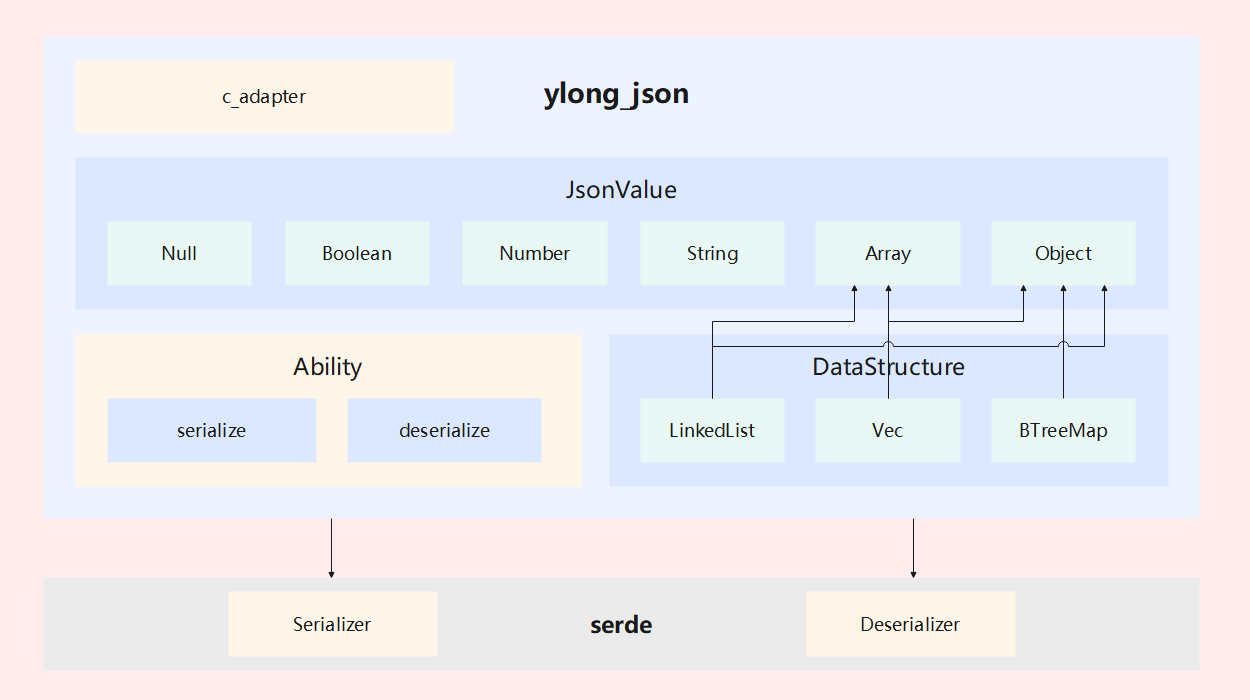
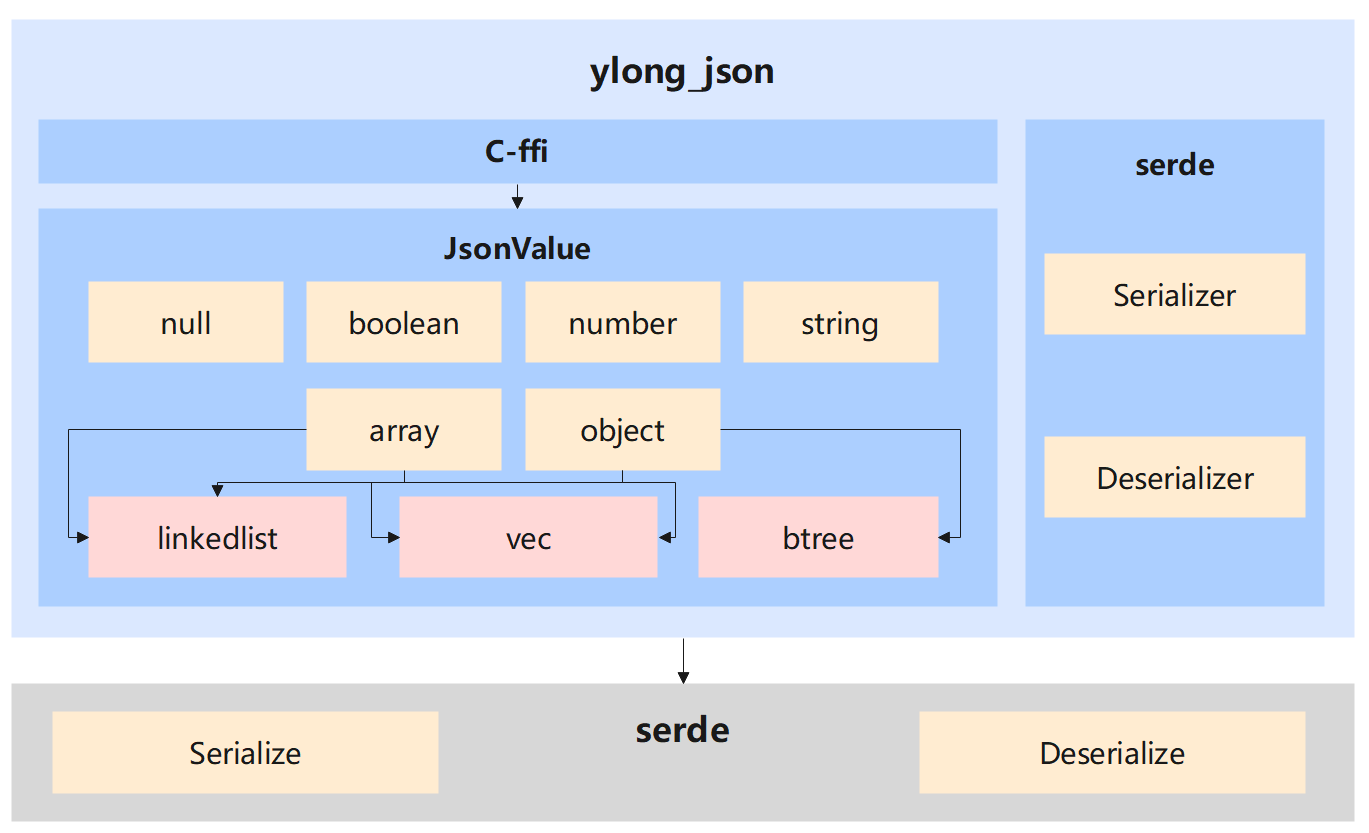
修改 ylong_json readme 问题。

diff --git a/README.md b/README.md
@@ -1,30 +1,33 @@
 # ylong_json
 
 ## Introduction
-The `ylong_json` module provides serialization of text or string in JSON syntax format and deserialization of corresponding generated instances.
+`ylong_json` is a general `JSON` syntax parsing library that provides functions for converting `JSON` text to and from specific data structures.
 
-### ylong_json in Openharmony
+### ylong_json in OpenHarmony
 ![structure](./figures/ylong_json_oh_relate.png)
-Here is the description of the key fields in the figure above:
-- `ylong_json` : System component that provides json serialization and deserialization capabilities
-- `serde` : Third-party library for efficient and generic serialization and deserialization of Rust data structures.
+The following is a description of the key fields in the above figure:
+- `Application Layer`: The application layer provides specific functions to users.
+- `App`: Various applications need to use the functions of the system service layer.
+- `System Service Layer`: System service layer, which provides system services to upper-layer applications.
+- `system services`: Various system services require the use of `JSON` related functions.
+- `ylong_json`: System component, providing common `JSON` serialization and deserialization capabilities to related components of the system service layer.
+- `serde`: third-party library for efficient and versatile serialization and deserialization of `Rust` data structures.
 
 ### ylong_json Internal architecture diagram
 ![structure](./figures/ylong_json_inner_structure.png)
-`ylong_json` is mainly divided into two modules, a module with a custom `JsonValue` structure type as the core and a module that ADAPTS to the third-party library `serde`.
+`ylong_json` is mainly divided into three submodules: `JsonValue` submodule, `serde` submodule, and C-ffi submodule.
 
-1. `JsonValue` is the internal custom structure type of `ylong_json`, and the serialization and deserialization function of `json` is built with this structure as the core.
-- `JsonValue` : The core structure type, which stores the json content information, has 6 internal enum type variants.
-- `LinkedList`, `Vec`, `BTreeMap` : Three ways of storing data inside `Array` and `Object`, selected by `features`.
-- Serialization ability: Supports outputting a `JsonValue` instance as a compact strings or writing to the output stream.
-- Deserialization ability: Supports parsing `json` text or `json` content in the input stream and generating a `JsonValue` instance.
+The `JsonValue` submodule provides a basic data structure `JsonValue`.
+`JsonValue` supports serializing itself into `JSON` text in either indented or compact format. Any syntactically correct `JSON` text can also be deserialized into a corresponding `JsonValue` data structure.
+`JsonValue` supports addition, deletion, modification and query, and you can use the specified interface to change the data content in `JsonValue`.
+`JsonValue` supports all data types in `JSON` syntax: `null`, `boolean`, `number`, `string`, `array`, `object`, and implements all its functions according to `ECMA-404`.
+For `array` and `object` grammatical structures, `JsonValue` provides a variety of underlying data structures for different usage scenarios, for example, for `array` structures, it supports the underlying use of `Vec` or `LinkedList`, for `object` , supports the use of `Vec`, `LinkedList` or `Btree` as its underlying layer.
+On different underlying data structures, `array` and `object` will reflect different creation and query performance, for example, `object` based on `Btree` data structure has higher performance in query, `LinkedList` or `LinkedList` or `Vec` has high performance in terms of creation.
 
-2. `ylong_json` adapts to the third-party library `serde` 
-- `Serializer`: The auxiliary structure for serialization.
-- `Deserializer`: The auxiliary structure for deserialization.
-- Serialization ability: Supports for serializing a type instance that implements the `serde::Serialize` trait into `json` text content or writing the content to the output stream.
-- Deserialization ability: If the `json` content has the type that implements `serde::Deserialize` trait, then that part of the `json` content can be deserialized into an instance of that type.
+The `serde` submodule provides procedural macro functions based on the `Serialize` and `Deserialize` traits provided by the `serde` third-party library, which can support fast conversion of user structures and `JSON` text.
+The advantage of `serde` compared to `JsonValue` is that it is easy to use. Users do not need to convert the `JSON` text to `JsonValue` and then extract the specified data from it to generate the `Rust` structure. They only need to set `Serialize' to the structure. ` and `Deserialize` process macro tags can be used to serialize the interface structure provided in `ylong_json` into `JSON` text, or convert the corresponding `JSON` text into a user structure.
 
+The C-ffi module provides a C interface layer based on the `JsonValue` module, which facilitates users to use the C interface to call the functions of the `ylong_json` library.
 ## Directory
 ```
 ylong_json
@@ -72,40 +75,44 @@ external_deps = ["ylong_json:lib"]
 See [user_guide](./docs/user_guide.md)
 
 ## Performance test
+The following tests are from [`nativejson-benchmark`](https://www.github.com/miloyip/nativejson-benchmark)。
+
+The test environment information is as follows:
 ```
-1.Test environment
-OS: Linux
-Architecture: x86_64
-Byte Order: Little Endian
-Model number: Intel(R) Xeon(R) Gold 6278C CPU @ 2.60GHz
+OS: Ubuntu 7.3.-16ubuntu3
+Processor: Intel(R) Xeon(R) Gold 6278C CPU @ 2.60GHz
 CPU(s): 8
-MemTotal: 16G
-
-2.Test result
-| Serialize | ylong_json      | serde_json     |
-------------------------------------------------
-| null      | 150 ns/iter     | 175 ns/iter    |
-| boolean   | 155 ns/iter     | 178 ns/iter    |
-| number    | 309 ns/iter     | 291 ns/iter    |
-| string    | 513 ns/iter     | 413 ns/iter    |
-| array     | 998 ns/iter     | 1,075 ns/iter  |
-| object    | 1,333 ns/iter   | 1,348 ns/iter  |
-| example1  | 12,537 ns/iter  | 12,288 ns/iter |
-| example2  | 23,754 ns/iter  | 21,936 ns/iter |
-| example3  | 103,061 ns/iter | 97,247 ns/iter |
-| example4  | 15,234 ns/iter  | 17,895 ns/iter |
-
-| Deserialize | ylong_json      | serde_json     |
---------------------------------------------------
-| null        | 257 ns/iter     | 399 ns/iter    |
-| boolean     | 260 ns/iter     | 400 ns/iter    |
-| number      | 1,507 ns/iter   | 989 ns/iter    |
-| string      | 414 ns/iter     | 610 ns/iter    |
-| array       | 2,258 ns/iter   | 2,148 ns/iter  |
-| object      | 810 ns/iter     | 1,386 ns/iter  |
-| example1    | 10,191 ns/iter  | 10,227 ns/iter |
-| example2    | 15,753 ns/iter  | 18,022 ns/iter |
-| example3    | 55,910 ns/iter  | 59,717 ns/iter |
-| example4    | 18,461 ns/iter  | 12,471 ns/iter |
+Memory：8.0 G
 ```
 
+Software versions tested:
+
+cJSON 1.7.16
+
+Test Results:
+```
+======= ylong-json ==== parse | stringify ====
+canada.json            200 MB/s  90 MB/s 
+citm_catalog.json      450 MB/s  300 MB/s 
+twitter.json           340 MB/s  520 MB/s
+
+======== cJSON ======== parse | stringify ====
+canada.json            55 MB/s    11 MB/s 
+citm_catalog.json      260 MB/s   170 MB/s 
+twitter.json           210 MB/s   210 MB/s
+```
+
+Description of test results:
+
+Three test files are provided in the `nativejson-benchmark` test. Among them, `canada.json` contains a large number of `number` structures, the various data types of `citm_catalog.json` are relatively average, and `twitter.json` exists Various `UTF-8` characters.
+To ensure test fairness, `ylong_json` enables `list_object`, `list_array` and `ascii_only` feature.
+The `list_object` and `list_array` features are mainly to ensure consistency with the `cJSON` data structure, and both are implemented using linked lists.
+`ascii_only` feature is to ensure consistent processing logic for `UTF-8` characters, `cJSON` does not handle UTF-8 characters.
+
+The testing process is as follows:
+- Read the content of the file into the memory, and get the content of the file `content`.
+- Call the specified `JSON` library deserialization interface to generate the corresponding `JSON` structure `data`.
+- Call the serialization interface of the `JSON` structure to generate the output content `result`.
+- Using `content`, loop deserialization generates `JSON` structure 100 times, taking the smallest processing time `t1`.
+- Using `data`, serialize and generate `JSON` text 100 times, taking the smallest processing time `t2`.
+- Calculate the parsing speed, the deserialization time is the length of `content` divided by `t1`, and the serialization time is the length of the `JSON` text divided by `t2`.

diff --git a/README_zh.md b/README_zh.md
@@ -1,29 +1,33 @@
 # ylong_json
 
 ## 简介
-`ylong_json` 模块提供了 JSON 语法格式文本或字符串的序列化功能，以及对应生成实例的反序列化功能。
+`ylong_json` 是一个通用的 `JSON` 语法解析库，提供了 `JSON` 文本和特定数据结构之间的相互转换功能。
 
-### ylong_json 在 Openharmony 中的位置
+### ylong_json 在 OpenHarmony 中的位置
 ![structure](./figures/ylong_json_oh_relate.png)
 以下是对于上图关键字段的描述信息：
-- `ylong_json`：提供 `json` 序列化与反序列化能力的系统组件
+- `Application Layer`：应用层，给用户提供具体功能。
+- `App`：各种应用，需要使用系统服务层的功能。
+- `System Service Layer`：系统服务层，给上层应用提供系统服务。
+- `system services`：各种系统服务，需要使用 `JSON` 相关的功能。 
+- `ylong_json`：系统组件，给系统服务层的相关组件提供通用的 `JSON` 序列化与反序列化能力。
 - `serde`：第三方库，用于高效、通用地序列化和反序列化 `Rust` 数据结构。
 
 ### ylong_json 内部架构图
 ![structure](./figures/ylong_json_inner_structure.png)
-`ylong_json` 内部主要分为两个模块，以自定义 `JsonValue` 类型为核心的模块和适配第三方库 `serde` 的模块。
+`ylong_json` 主要分为三个子模块：`JsonValue` 子模块、`serde` 子模块、C-ffi 子模块。
 
-1. `JsonValue` 是 `ylong_json` 内部自定义的结构类型，以该结构为核心构建 `json` 的序列化与反序列化功能。
-- `JsonValue` ：核心结构类型，存储 `json` 内容信息，共有 6 种枚举类型变体。
-- `LinkedList`, `Vec`, `BTreeMap`：`Array` 与 `Object` 内部数据存储的三种方式，通过 `features` 选择。
-- 序列化功能：支持将 `JsonValue` 实例输出为紧凑型字符串或写到输出流中。
-- 反序列化功能：支持解析 `json` 文本或输入流中的 `json` 内容并生成 `JsonValue` 实例。
+`JsonValue` 子模块提供了一种基础数据结构 `JsonValue`。
+`JsonValue` 支持以缩进型格式或紧凑型格式将自身序列化成 `JSON` 文本。任意语法正确的 `JSON` 文本也能被反序列化成一个对应的 `JsonValue` 数据结构。
+`JsonValue` 支持增删改查，可以使用指定接口变更 `JsonValue` 中的数据内容。
+`JsonValue` 支持 `JSON` 语法中全部的数据类型：`null`, `boolean`, `number`, `string`, `array`, `object`，且按照 `ECMA-404` 实现其全部功能。
+针对于 `array` 和 `object` 语法结构，`JsonValue` 提供了多种底层数据结构以针对不同使用场景，例如对于 `array` 结构，支持底层使用 `Vec` 或 `LinkedList`，对于 `object`，支持其底层使用 `Vec`, `LinkedList` 或 `Btree`。
+在不同的底层数据结构之上，`array` 和 `object` 会体现出不同的创建和查询性能，例如基于 `Btree` 数据结构的 `object` 在查询方面具有较高性能表现，`LinkedList` 或 `Vec` 在创建方面具有较高性能表现。
 
-2. `ylong_json` 适配了第三方库 `serde` 
-- `Serializer`：序列化输出的辅助结构类型。
-- `Deserializer`：反序列化输出的辅助结构类型。
-- 序列化功能：支持将实现了 `serde::Serialize` trait 的类型实例序列化为 `json` 文本内容或将内容写到输出流中。
-- 反序列化功能：若实现了 `serde::Deserialize` trait 的类型在 `json` 内容中，则可将该部分 `json` 内容反序列化为该类型的实例。
+`serde` 子模块提供了基于 `serde` 第三方库提供的 `Serialize` 和 `Deserialize` trait 的过程宏功能，可以支持用户结构体和 `JSON` 文本的快速转换。
+`serde` 相较于 `JsonValue` 的优势是使用便捷，用户无需将 `JSON` 文本先转换为 `JsonValue` 再从其中取出指定数据生成 `Rust` 结构体，只需给结构体设定 `Serialize` 和 `Deserialize` 过程宏标签，即可使用 `ylong_json` 中提供的接口结构体序列化成 `JSON` 文本，或将对应的 `JSON` 文本转换为用户结构体。
+
+C-ffi 模块提供了基于 `JsonValue` 模块的 C 接口层，方便用户使用 C 接口调用 `ylong_json` 库的功能。
 
 ## 目录
 ```
@@ -73,39 +77,47 @@ external_deps = ["ylong_json:lib"]
 详情内容请见[用户指南](./docs/user_guide_zh.md)
 
 ## 性能测试
+
+以下测试来源于 [`nativejson-benchmark`](https://www.github.com/miloyip/nativejson-benchmark)。
+
+测试环境信息如下：
 ```
-1.测试环境
 操作系统：Linux
 架构：x86_64
 字节序：小端
 CPU 型号：Intel(R) Xeon(R) Gold 6278C CPU @ 2.60GHz
 CPU 核心数：8
-内存：16G
-
-2.测试结果
-| 序列化   | ylong_json      | serde_json      |
------------------------------------------------
-| null     | 150 ns/iter     | 175 ns/iter    |
-| boolean  | 155 ns/iter     | 178 ns/iter    |
-| number   | 309 ns/iter     | 291 ns/iter    |
-| string   | 513 ns/iter     | 413 ns/iter    |
-| array    | 998 ns/iter     | 1,075 ns/iter  |
-| object   | 1,333 ns/iter   | 1,348 ns/iter  |
-| example1 | 12,537 ns/iter  | 12,288 ns/iter |
-| example2 | 23,754 ns/iter  | 21,936 ns/iter |
-| example3 | 103,061 ns/iter | 97,247 ns/iter |
-| example4 | 15,234 ns/iter  | 17,895 ns/iter |
-
-| 反序列化  | ylong_json      | serde_json     |
------------------------------------------------
-| null     | 257 ns/iter     | 399 ns/iter    |
-| boolean  | 260 ns/iter     | 400 ns/iter    |
-| number   | 1,507 ns/iter   | 989 ns/iter    |
-| string   | 414 ns/iter     | 610 ns/iter    |
-| array    | 2,258 ns/iter   | 2,148 ns/iter  |
-| object   | 810 ns/iter     | 1,386 ns/iter  |
-| example1 | 10,191 ns/iter  | 10,227 ns/iter |
-| example2 | 15,753 ns/iter  | 18,022 ns/iter |
-| example3 | 55,910 ns/iter  | 59,717 ns/iter |
-| example4 | 18,461 ns/iter  | 12,471 ns/iter |
+内存：8G
 ```
+
+测试的软件版本： 
+
+cJSON 1.7.16
+
+测试结果：
+```
+======= ylong-json ==== parse | stringify ====
+canada.json            200 MB/s  90 MB/s 
+citm_catalog.json      450 MB/s  300 MB/s 
+twitter.json           340 MB/s  520 MB/s
+
+======== cJSON ======== parse | stringify ====
+canada.json            55 MB/s    11 MB/s 
+citm_catalog.json      260 MB/s   170 MB/s 
+twitter.json           210 MB/s   210 MB/s
+```
+
+测试结果描述：
+
+在 `nativejson-benchmark` 测试中提供了三种测试文件，其中 `canada.json` 包含了大量的 `number` 结构，`citm_catalog.json` 的各种数据类型较为平均，`twitter.json` 中存在各种 `UTF-8` 字符。
+为了保证测试公平性，`ylong_json` 开启了 `list_object` 和 `list_array` 以及 `ascii_only` feature。
+`list_object` 和 `list_array` feature 主要是为了保证和 `cJSON` 数据结构层面一致，都使用链表实现。
+`ascii_only` feature 是为了保证针对 `UTF-8` 字符的处理逻辑一致，`cJSON` 对于 UTF-8 字符不做处理。
+
+测试流程如下：
+ - 读取文件内容到内存，得到文件内容 `content`。
+ - 调用指定 `JSON` 库反序列化接口生成对应的 `JSON` 结构体 `data`。
+ - 调用 `JSON` 结构体的序列化接口生成输出内容 `result`。
+ - 利用 `content`，循环反序列化生成 100 次 `JSON` 结构体，取较小的处理时间 `t1`。
+ - 利用 `data`，序列化生成 100 次 `JSON` 文本，取较小的处理时间 `t2`。
+ - 计算解析速度，反序列化时间为 `content` 的长度除以 `t1`，序列化时间为 `JSON` 文本长度除以 `t2`。
